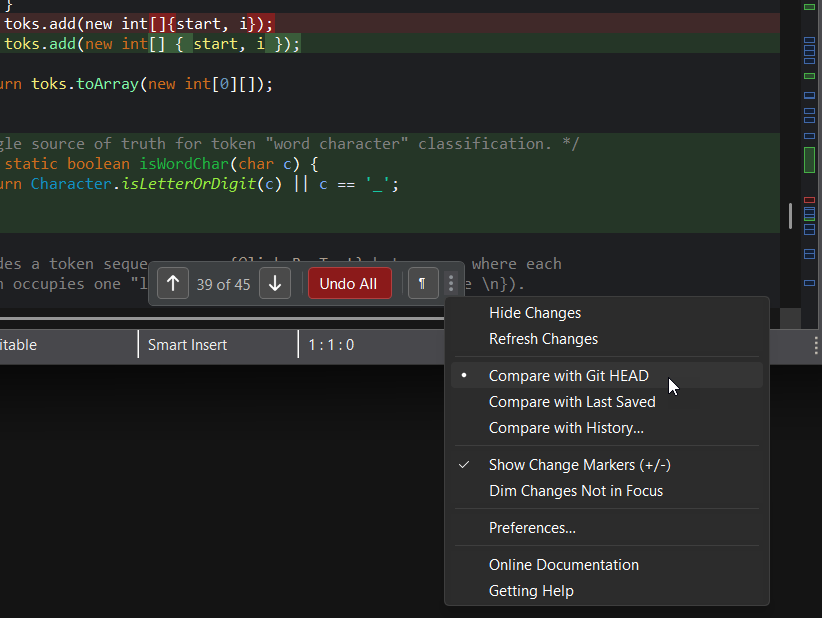
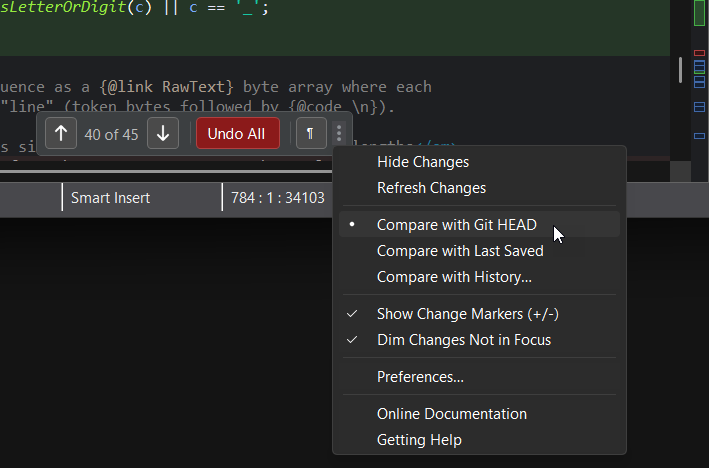
Docs: new Time Machine preferences and Inline Diff menu screenshots
Claude-Session: https://claude.ai/code/session_01GaF7LoyFeahYk5pDoa8Hdt

Changed region(s): [[0.0, 0.1197, 0.9309, 0.9872], [0.0, 0.0, 1.0, 0.6581]]

diff --git a/website/docs/inline-diff/time-machine.md b/website/docs/inline-diff/time-machine.md
@@ -43,8 +43,6 @@ total (MB)** to limit how much agent content is retained.
 
 ![Time Machine preferences showing agent-history storage limits and a link to Eclipse Local History preferences.](/img/time-machine-prefs.png)
 
-{/* TODO: Retake without ChangeReview installed: current image shows the old page names, the 'Change Review' and 'Agent Review' pages, and 'Change Reviews' in the page text. */}
-
 Your own saved versions are kept by Eclipse's Local History. If they disappear
 from the timeline sooner than expected, adjust **General > Workspace > Local History**.
 The Time Machine preference page includes a link to those settings.

diff --git a/website/docs/inline-diff/live-review.md b/website/docs/inline-diff/live-review.md
@@ -120,6 +120,8 @@ Inline Diff settings.
 
 ![The Inline Diff preference page linking to the Live Review, Time Machine, and Compare settings, the online documentation, and help.](/img/inline-diff-prefs-hub.png)
 
+{/* TODO: Replace with a screenshot from the new build (fixes "a files history" to "a file's history"). */}
+
 ![Live Review preferences showing the default baseline, word highlighting, focus dimming, whitespace-only filtering, change markers, navigation, and automatic refresh settings.](/img/live-review-prefs.png)
 
 Use this page to choose the default baseline and adjust:

diff --git a/website/docs/inline-diff/install/installation.md b/website/docs/inline-diff/install/installation.md
@@ -29,6 +29,8 @@ All Inline Diff settings are linked from **Window > Preferences > Inline Diff**
 
 ![The Inline Diff preference page linking to the Live Review, Time Machine, and Compare settings, the online documentation, and help.](/img/inline-diff-prefs-hub.png)
 
+{/* TODO: Replace with a screenshot from the new build (fixes "a files history" to "a file's history"). */}
+
 ## Updating
 
 Open **Help > Check for Updates**, select an available Inline Diff update,
